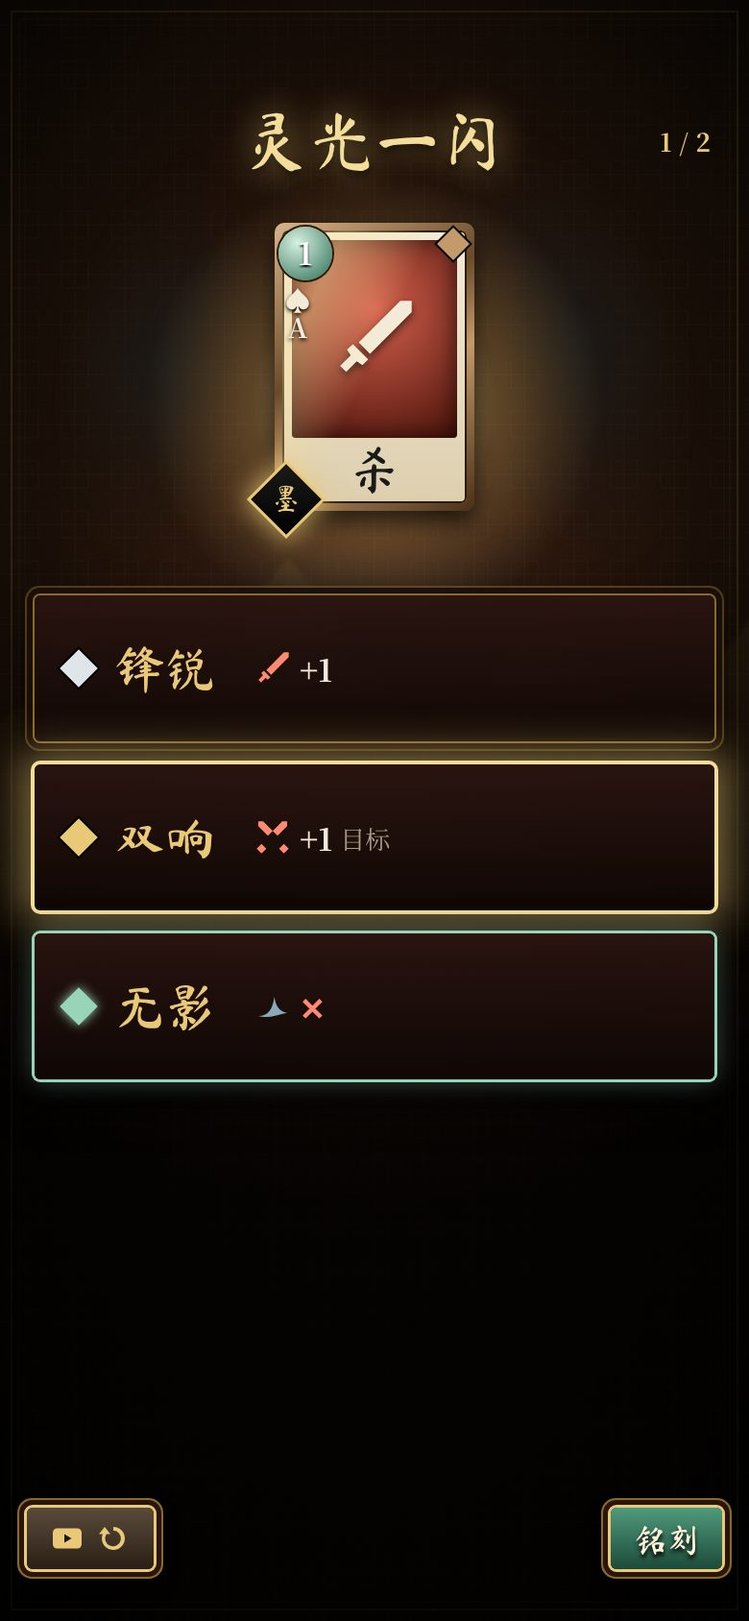
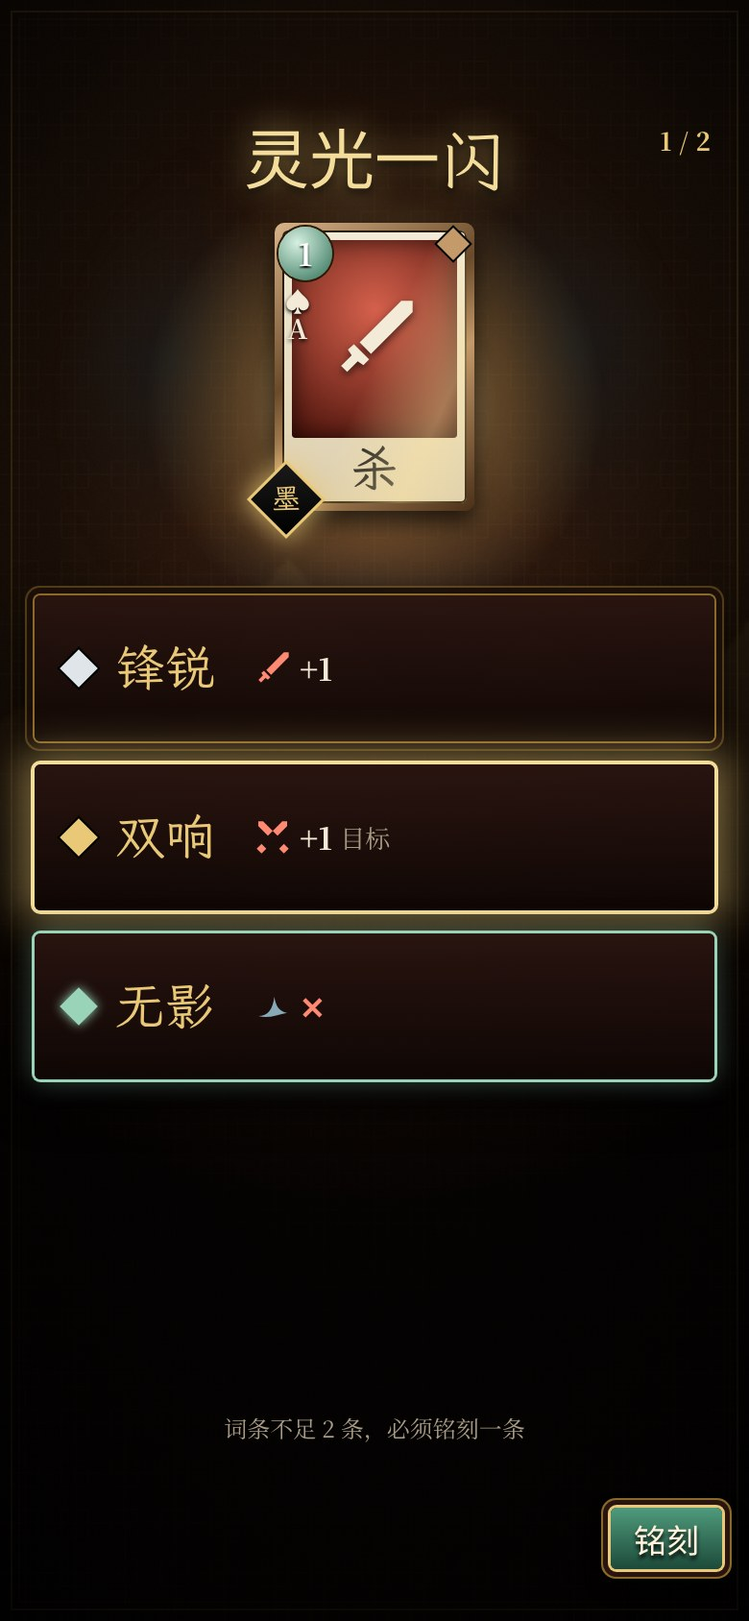
UI：灵光一闪补满词条替换/放弃状态，H5 隐藏刷新
- epiphany.html（docs 与 public 同步）：默认 H5 词条<2 必选、未选铭刻 disabled；#full 已有 2 词条可替换或放弃；#wx 保留广告刷新
- render-spec 新增 §8.6 与布局行，acceptance 灵光一闪行更新
- mockup 索引加 #full/#wx 入口，注明 0 候选不弹层
- 重渲 mockup-epiphany.jpg，新增 mockup-epiphany-full.jpg（780×1688，文楷）

diff --git a/docs/ui/mockups-v3/epiphany.html b/docs/ui/mockups-v3/epiphany.html
@@ -13,6 +13,21 @@
 .m.L{box-shadow:0 0 0 1.5px #9ad4b8,0 0 14px rgba(154,212,184,.4),0 10px 24px #000}
 .cnt{position:absolute;right:20px;top:64px;z-index:3;font-size:13px;color:var(--gold);display:flex;align-items:center;gap:4px}
 .bar{background:transparent;box-shadow:none}.bar .btn.ok{margin-left:auto}
+.bar .btn.dis{filter:grayscale(.85) brightness(.6);pointer-events:none}
+.adb{display:none}body.wx .adb{display:inline-flex}
+.old{display:none;position:absolute;left:18px;right:18px;top:282px;z-index:2}
+.old .lb{font-size:12px;color:var(--gold);margin-bottom:6px;text-align:center}
+.old .row{display:flex;gap:10px}
+.o{flex:1;height:48px;display:flex;align-items:center;gap:8px;padding:0 12px;cursor:pointer;opacity:.85}
+.o .gm{width:11px;height:11px;transform:rotate(45deg);box-shadow:0 0 0 1px #000;flex:none}
+.o b{font-family:Brush;font-weight:normal;font-size:20px;color:var(--paper)}.o .ef{font-size:14px;margin-left:auto;display:flex;align-items:center;gap:3px}.o .ef svg{width:16px;height:16px}
+.o.tgt{opacity:1;box-shadow:0 0 0 2px var(--cinn-glow),0 0 16px rgba(255,107,85,.55),0 8px 18px #000}
+.o.tgt b{text-decoration:line-through;text-decoration-color:var(--cinn-glow)}
+.o.tgt::after{content:"替";position:absolute;margin:-40px 0 0 -18px;width:20px;height:20px;line-height:20px;text-align:center;font-family:Brush;font-size:14px;color:var(--paper);background:var(--cinnabar);border-radius:2px;box-shadow:0 0 0 1px var(--paper)}
+.o{position:relative}
+.hn{position:absolute;left:0;right:0;bottom:92px;text-align:center;font-size:12px;color:#a89c84;z-index:2}
+body.full .old{display:block}body.full .mods{top:362px}body.full .m{height:68px}
+.vf{display:none}body.full .vf{display:inline-flex}body.full .hn.vf{display:block}body.full .vd{display:none}
 </style></head><body><svg width="0" height="0" style="position:absolute" aria-hidden="true">
 <defs>
  <filter id="brush" x="-10%" y="-10%" width="120%" height="120%">
@@ -150,7 +165,12 @@
  <div class="m panel sel"><span class="gm" style="background:var(--gold)"></span><b>双响</b><span class="ef"><svg style="fill:#ff8a73"><use href="#i-swords"/></svg><span class="num">+1</span><span style="font-size:13px;color:#a89c84">目标</span></span></div>
  <div class="m panel L"><span class="gm" style="background:#9ad4b8;box-shadow:0 0 6px #9ad4b8"></span><b>无影</b><span class="ef"><svg style="fill:var(--azure-hi)"><use href="#i-dodge"/></svg><span class="num" style="color:#ff8a73">✕</span></span></div>
 </div>
-<div class="bar"><div class="btn sec sm"><svg><use href="#i-ad"/></svg><svg><use href="#i-refresh"/></svg></div><div class="btn ok sm">铭刻</div></div>
+<div class="old"><div class="lb">已有 2 条词条 · 选择要替换的一条</div><div class="row">
+ <div class="o panel"><span class="gm" style="background:#dfe5e8"></span><b>迅击</b><span class="ef"><svg style="fill:var(--azure-hi)"><use href="#i-dodge"/></svg><span class="num">+1</span></span></div>
+ <div class="o panel tgt"><span class="gm" style="background:var(--gold)"></span><b>破甲</b><span class="ef"><svg style="fill:#ff8a73"><use href="#i-armor"/></svg><span class="num">−1</span></span></div>
+</div></div>
+<div class="hn vd">词条不足 2 条，必须铭刻一条</div><div class="hn vf">先选新词条，再选替换哪条；或放弃本次灵光</div>
+<div class="bar"><div class="btn sec sm adb" title="仅微信版：广告刷新，每次灵光 1 次"><svg><use href="#i-ad"/></svg><svg><use href="#i-refresh"/></svg></div><div class="btn sec sm vf" id="giveup">放弃</div><div class="btn ok sm vd" id="ink">铭刻</div><div class="btn ok sm vf" id="rep">替换</div></div>
 </div><script>const use=(id,cls='')=>`<svg class="${cls}"><use href="#${id}"/></svg>`;
 const red=s=>s=='♥'||s=='♦';
 const card=(c,cls='')=>`<div class="card ${c.k} ${c.r||'N'} ${c.mo?'moc':''} ${cls}"><div class="in"><div class="art">${use(c.i)}</div><div class="cn">${c.n}</div></div><span class="c num">${c.c}</span><span class="su ${red(c.s)?'r':''}">${c.s}<br><span class="num">${c.p}</span></span><span class="rar"></span>${c.mo?'<span class="mo"><span>墨</span></span>':''}</div>`;
@@ -159,4 +179,11 @@ const HEROES=[{n:'吕布',f:'qun',fa:'群',hp:9,s:'boss'},{n:'貂蝉',f:'qun',fa
 function longpress(el,fn){let t;el.addEventListener('pointerdown',()=>{t=setTimeout(fn,420)});['pointerup','pointerleave'].forEach(v=>el.addEventListener(v,()=>clearTimeout(t)));}
 
 cc.innerHTML=card({n:'杀',c:1,s:'♠',p:'A',k:'atk',i:'i-sword',r:'N',mo:1},'big');
-document.querySelectorAll('.m').forEach(o=>o.onclick=()=>{document.querySelectorAll('.m').forEach(x=>x.classList.remove('sel'));o.classList.add('sel')});</script></body></html>
+/* 状态：默认 H5·词条<2（必须选一）；#full 满 2 条（替换/放弃）；#wx 微信版显示广告刷新；可组合 #full-wx。0 条候选时不弹层，无画面。 */
+const H=location.hash;if(H.includes('full'))document.body.classList.add('full');if(H.includes('wx'))document.body.classList.add('wx');
+const full=document.body.classList.contains('full');
+if(full){cc.innerHTML=card({n:'杀',c:1,s:'♠',p:'A',k:'atk',i:'i-sword',r:'R',mo:1},'big');}
+const sync=()=>{const m=!!document.querySelector('.m.sel'),t=!!document.querySelector('.o.tgt');ink.classList.toggle('dis',!m);rep.classList.toggle('dis',!(m&&t));};
+document.querySelectorAll('.m').forEach(o=>o.onclick=()=>{document.querySelectorAll('.m').forEach(x=>x.classList.remove('sel'));o.classList.add('sel');sync()});
+document.querySelectorAll('.o').forEach(o=>o.onclick=()=>{document.querySelectorAll('.o').forEach(x=>x.classList.remove('tgt'));o.classList.add('tgt');sync()});
+sync();</script></body></html>

diff --git a/public/mockups/v3/epiphany.html b/public/mockups/v3/epiphany.html
@@ -13,6 +13,21 @@
 .m.L{box-shadow:0 0 0 1.5px #9ad4b8,0 0 14px rgba(154,212,184,.4),0 10px 24px #000}
 .cnt{position:absolute;right:20px;top:64px;z-index:3;font-size:13px;color:var(--gold);display:flex;align-items:center;gap:4px}
 .bar{background:transparent;box-shadow:none}.bar .btn.ok{margin-left:auto}
+.bar .btn.dis{filter:grayscale(.85) brightness(.6);pointer-events:none}
+.adb{display:none}body.wx .adb{display:inline-flex}
+.old{display:none;position:absolute;left:18px;right:18px;top:282px;z-index:2}
+.old .lb{font-size:12px;color:var(--gold);margin-bottom:6px;text-align:center}
+.old .row{display:flex;gap:10px}
+.o{flex:1;height:48px;display:flex;align-items:center;gap:8px;padding:0 12px;cursor:pointer;opacity:.85}
+.o .gm{width:11px;height:11px;transform:rotate(45deg);box-shadow:0 0 0 1px #000;flex:none}
+.o b{font-family:Brush;font-weight:normal;font-size:20px;color:var(--paper)}.o .ef{font-size:14px;margin-left:auto;display:flex;align-items:center;gap:3px}.o .ef svg{width:16px;height:16px}
+.o.tgt{opacity:1;box-shadow:0 0 0 2px var(--cinn-glow),0 0 16px rgba(255,107,85,.55),0 8px 18px #000}
+.o.tgt b{text-decoration:line-through;text-decoration-color:var(--cinn-glow)}
+.o.tgt::after{content:"替";position:absolute;margin:-40px 0 0 -18px;width:20px;height:20px;line-height:20px;text-align:center;font-family:Brush;font-size:14px;color:var(--paper);background:var(--cinnabar);border-radius:2px;box-shadow:0 0 0 1px var(--paper)}
+.o{position:relative}
+.hn{position:absolute;left:0;right:0;bottom:92px;text-align:center;font-size:12px;color:#a89c84;z-index:2}
+body.full .old{display:block}body.full .mods{top:362px}body.full .m{height:68px}
+.vf{display:none}body.full .vf{display:inline-flex}body.full .hn.vf{display:block}body.full .vd{display:none}
 </style></head><body><svg width="0" height="0" style="position:absolute" aria-hidden="true">
 <defs>
  <filter id="brush" x="-10%" y="-10%" width="120%" height="120%">
@@ -150,7 +165,12 @@
  <div class="m panel sel"><span class="gm" style="background:var(--gold)"></span><b>双响</b><span class="ef"><svg style="fill:#ff8a73"><use href="#i-swords"/></svg><span class="num">+1</span><span style="font-size:13px;color:#a89c84">目标</span></span></div>
  <div class="m panel L"><span class="gm" style="background:#9ad4b8;box-shadow:0 0 6px #9ad4b8"></span><b>无影</b><span class="ef"><svg style="fill:var(--azure-hi)"><use href="#i-dodge"/></svg><span class="num" style="color:#ff8a73">✕</span></span></div>
 </div>
-<div class="bar"><div class="btn sec sm"><svg><use href="#i-ad"/></svg><svg><use href="#i-refresh"/></svg></div><div class="btn ok sm">铭刻</div></div>
+<div class="old"><div class="lb">已有 2 条词条 · 选择要替换的一条</div><div class="row">
+ <div class="o panel"><span class="gm" style="background:#dfe5e8"></span><b>迅击</b><span class="ef"><svg style="fill:var(--azure-hi)"><use href="#i-dodge"/></svg><span class="num">+1</span></span></div>
+ <div class="o panel tgt"><span class="gm" style="background:var(--gold)"></span><b>破甲</b><span class="ef"><svg style="fill:#ff8a73"><use href="#i-armor"/></svg><span class="num">−1</span></span></div>
+</div></div>
+<div class="hn vd">词条不足 2 条，必须铭刻一条</div><div class="hn vf">先选新词条，再选替换哪条；或放弃本次灵光</div>
+<div class="bar"><div class="btn sec sm adb" title="仅微信版：广告刷新，每次灵光 1 次"><svg><use href="#i-ad"/></svg><svg><use href="#i-refresh"/></svg></div><div class="btn sec sm vf" id="giveup">放弃</div><div class="btn ok sm vd" id="ink">铭刻</div><div class="btn ok sm vf" id="rep">替换</div></div>
 </div><script>const use=(id,cls='')=>`<svg class="${cls}"><use href="#${id}"/></svg>`;
 const red=s=>s=='♥'||s=='♦';
 const card=(c,cls='')=>`<div class="card ${c.k} ${c.r||'N'} ${c.mo?'moc':''} ${cls}"><div class="in"><div class="art">${use(c.i)}</div><div class="cn">${c.n}</div></div><span class="c num">${c.c}</span><span class="su ${red(c.s)?'r':''}">${c.s}<br><span class="num">${c.p}</span></span><span class="rar"></span>${c.mo?'<span class="mo"><span>墨</span></span>':''}</div>`;
@@ -159,4 +179,11 @@ const HEROES=[{n:'吕布',f:'qun',fa:'群',hp:9,s:'boss'},{n:'貂蝉',f:'qun',fa
 function longpress(el,fn){let t;el.addEventListener('pointerdown',()=>{t=setTimeout(fn,420)});['pointerup','pointerleave'].forEach(v=>el.addEventListener(v,()=>clearTimeout(t)));}
 
 cc.innerHTML=card({n:'杀',c:1,s:'♠',p:'A',k:'atk',i:'i-sword',r:'N',mo:1},'big');
-document.querySelectorAll('.m').forEach(o=>o.onclick=()=>{document.querySelectorAll('.m').forEach(x=>x.classList.remove('sel'));o.classList.add('sel')});</script></body></html>
+/* 状态：默认 H5·词条<2（必须选一）；#full 满 2 条（替换/放弃）；#wx 微信版显示广告刷新；可组合 #full-wx。0 条候选时不弹层，无画面。 */
+const H=location.hash;if(H.includes('full'))document.body.classList.add('full');if(H.includes('wx'))document.body.classList.add('wx');
+const full=document.body.classList.contains('full');
+if(full){cc.innerHTML=card({n:'杀',c:1,s:'♠',p:'A',k:'atk',i:'i-sword',r:'R',mo:1},'big');}
+const sync=()=>{const m=!!document.querySelector('.m.sel'),t=!!document.querySelector('.o.tgt');ink.classList.toggle('dis',!m);rep.classList.toggle('dis',!(m&&t));};
+document.querySelectorAll('.m').forEach(o=>o.onclick=()=>{document.querySelectorAll('.m').forEach(x=>x.classList.remove('sel'));o.classList.add('sel');sync()});
+document.querySelectorAll('.o').forEach(o=>o.onclick=()=>{document.querySelectorAll('.o').forEach(x=>x.classList.remove('tgt'));o.classList.add('tgt');sync()});
+sync();</script></body></html>

diff --git a/docs/ui/mockups-v3/index.html b/docs/ui/mockups-v3/index.html
@@ -1,1 +1,1 @@
-<!doctype html><html lang="zh"><head><meta charset="utf-8"><meta name="viewport" content="width=device-width"><title>墨卷三国 v3 金漆屏风</title><style>body{font-family:serif;background:#1a1410;color:#f3ebd8;max-width:960px;margin:auto;padding:20px}a{color:#e9c877}.g{display:flex;flex-wrap:wrap;gap:16px}.g a{display:block;width:290px}iframe{width:390px;height:844px;border:0;transform:scale(.74);transform-origin:0 0;margin:0 -101px -219px 0;pointer-events:none}</style></head><body><h1>v3 · 金漆屏风 外围页面</h1><p>战斗页见 <a href="../v2/b.html">v2/b.html</a></p><div class="g"><a href="resume.html">P1 启动·继续本局<br><iframe src="resume.html"></iframe></a><a href="abandon.html">放弃本局确认<br><iframe src="abandon.html"></iframe></a><a href="select.html">P1 点将<br><iframe src="select.html"></iframe></a><a href="map.html">P3 地图<br><iframe src="map.html"></iframe></a><a href="boss.html">P3 首领确认<br><iframe src="boss.html"></iframe></a><a href="epiphany.html">P2 灵光一闪<br><iframe src="epiphany.html"></iframe></a><a href="revive.html">P2 复活<br><iframe src="revive.html"></iframe></a><a href="settings.html">暂停/设置<br><iframe src="settings.html"></iframe></a><a href="version.html">P2 版本更新<br><iframe src="version.html"></iframe></a><a href="reward.html">P4 奖励<br><iframe src="reward.html"></iframe></a><a href="reward.html#full">P4 奖励·丹药满<br><iframe src="reward.html#full"></iframe></a><a href="shop.html">P4 集市<br><iframe src="shop.html"></iframe></a><a href="chest.html">P4 宝箱<br><iframe src="chest.html"></iframe></a><a href="event.html">P4b 奇遇<br><iframe src="event.html"></iframe></a><a href="rest.html">P4b 营地 H5<br><iframe src="rest.html"></iframe></a><a href="rest.html#wx">P4b 营地 微信<br><iframe src="rest.html#wx"></iframe></a><a href="result.html">P5 大捷<br><iframe src="result.html"></iframe></a><a href="defeat.html">P5 败北<br><iframe src="defeat.html"></iframe></a><a href="lobby.html">大厅（仅微信后续）<br><iframe src="lobby.html"></iframe></a></div></body></html>
+<!doctype html><html lang="zh"><head><meta charset="utf-8"><meta name="viewport" content="width=device-width"><title>墨卷三国 v3 金漆屏风</title><style>body{font-family:serif;background:#1a1410;color:#f3ebd8;max-width:960px;margin:auto;padding:20px}a{color:#e9c877}.g{display:flex;flex-wrap:wrap;gap:16px}.g a{display:block;width:290px}iframe{width:390px;height:844px;border:0;transform:scale(.74);transform-origin:0 0;margin:0 -101px -219px 0;pointer-events:none}</style></head><body><h1>v3 · 金漆屏风 外围页面</h1><p>战斗页见 <a href="../v2/b.html">v2/b.html</a></p><div class="g"><a href="resume.html">P1 启动·继续本局<br><iframe src="resume.html"></iframe></a><a href="abandon.html">放弃本局确认<br><iframe src="abandon.html"></iframe></a><a href="select.html">P1 点将<br><iframe src="select.html"></iframe></a><a href="map.html">P3 地图<br><iframe src="map.html"></iframe></a><a href="boss.html">P3 首领确认<br><iframe src="boss.html"></iframe></a><a href="epiphany.html">P2 灵光一闪 H5（词条&lt;2，必选）<br><iframe src="epiphany.html"></iframe></a><a href="epiphany.html#full">P2 灵光一闪·满 2 条（替换/放弃）<br><iframe src="epiphany.html#full"></iframe></a><a href="epiphany.html#wx">P2 灵光一闪 微信（广告刷新）<br><iframe src="epiphany.html#wx"></iframe></a><a href="revive.html">P2 复活<br><iframe src="revive.html"></iframe></a><a href="settings.html">暂停/设置<br><iframe src="settings.html"></iframe></a><a href="version.html">P2 版本更新<br><iframe src="version.html"></iframe></a><a href="reward.html">P4 奖励<br><iframe src="reward.html"></iframe></a><a href="reward.html#full">P4 奖励·丹药满<br><iframe src="reward.html#full"></iframe></a><a href="shop.html">P4 集市<br><iframe src="shop.html"></iframe></a><a href="chest.html">P4 宝箱<br><iframe src="chest.html"></iframe></a><a href="event.html">P4b 奇遇<br><iframe src="event.html"></iframe></a><a href="rest.html">P4b 营地 H5<br><iframe src="rest.html"></iframe></a><a href="rest.html#wx">P4b 营地 微信<br><iframe src="rest.html#wx"></iframe></a><a href="result.html">P5 大捷<br><iframe src="result.html"></iframe></a><a href="defeat.html">P5 败北<br><iframe src="defeat.html"></iframe></a><a href="lobby.html">大厅（仅微信后续）<br><iframe src="lobby.html"></iframe></a></div><p>注：灵光一闪过滤后 0 条候选时不弹层、不计次数、不重置保底（subpages-v05 §1.2），无对应画面。</p></body></html>

diff --git a/public/mockups/v3/index.html b/public/mockups/v3/index.html
@@ -1,1 +1,1 @@
-<!doctype html><html lang="zh"><head><meta charset="utf-8"><meta name="viewport" content="width=device-width"><title>墨卷三国 v3 金漆屏风</title><style>body{font-family:serif;background:#1a1410;color:#f3ebd8;max-width:960px;margin:auto;padding:20px}a{color:#e9c877}.g{display:flex;flex-wrap:wrap;gap:16px}.g a{display:block;width:290px}iframe{width:390px;height:844px;border:0;transform:scale(.74);transform-origin:0 0;margin:0 -101px -219px 0;pointer-events:none}</style></head><body><h1>v3 · 金漆屏风 外围页面</h1><p>战斗页见 <a href="../v2/b.html">v2/b.html</a></p><div class="g"><a href="resume.html">P1 启动·继续本局<br><iframe src="resume.html"></iframe></a><a href="abandon.html">放弃本局确认<br><iframe src="abandon.html"></iframe></a><a href="select.html">P1 点将<br><iframe src="select.html"></iframe></a><a href="map.html">P3 地图<br><iframe src="map.html"></iframe></a><a href="boss.html">P3 首领确认<br><iframe src="boss.html"></iframe></a><a href="epiphany.html">P2 灵光一闪<br><iframe src="epiphany.html"></iframe></a><a href="revive.html">P2 复活<br><iframe src="revive.html"></iframe></a><a href="settings.html">暂停/设置<br><iframe src="settings.html"></iframe></a><a href="version.html">P2 版本更新<br><iframe src="version.html"></iframe></a><a href="reward.html">P4 奖励<br><iframe src="reward.html"></iframe></a><a href="reward.html#full">P4 奖励·丹药满<br><iframe src="reward.html#full"></iframe></a><a href="shop.html">P4 集市<br><iframe src="shop.html"></iframe></a><a href="chest.html">P4 宝箱<br><iframe src="chest.html"></iframe></a><a href="event.html">P4b 奇遇<br><iframe src="event.html"></iframe></a><a href="rest.html">P4b 营地 H5<br><iframe src="rest.html"></iframe></a><a href="rest.html#wx">P4b 营地 微信<br><iframe src="rest.html#wx"></iframe></a><a href="result.html">P5 大捷<br><iframe src="result.html"></iframe></a><a href="defeat.html">P5 败北<br><iframe src="defeat.html"></iframe></a><a href="lobby.html">大厅（仅微信后续）<br><iframe src="lobby.html"></iframe></a></div></body></html>
+<!doctype html><html lang="zh"><head><meta charset="utf-8"><meta name="viewport" content="width=device-width"><title>墨卷三国 v3 金漆屏风</title><style>body{font-family:serif;background:#1a1410;color:#f3ebd8;max-width:960px;margin:auto;padding:20px}a{color:#e9c877}.g{display:flex;flex-wrap:wrap;gap:16px}.g a{display:block;width:290px}iframe{width:390px;height:844px;border:0;transform:scale(.74);transform-origin:0 0;margin:0 -101px -219px 0;pointer-events:none}</style></head><body><h1>v3 · 金漆屏风 外围页面</h1><p>战斗页见 <a href="../v2/b.html">v2/b.html</a></p><div class="g"><a href="resume.html">P1 启动·继续本局<br><iframe src="resume.html"></iframe></a><a href="abandon.html">放弃本局确认<br><iframe src="abandon.html"></iframe></a><a href="select.html">P1 点将<br><iframe src="select.html"></iframe></a><a href="map.html">P3 地图<br><iframe src="map.html"></iframe></a><a href="boss.html">P3 首领确认<br><iframe src="boss.html"></iframe></a><a href="epiphany.html">P2 灵光一闪 H5（词条&lt;2，必选）<br><iframe src="epiphany.html"></iframe></a><a href="epiphany.html#full">P2 灵光一闪·满 2 条（替换/放弃）<br><iframe src="epiphany.html#full"></iframe></a><a href="epiphany.html#wx">P2 灵光一闪 微信（广告刷新）<br><iframe src="epiphany.html#wx"></iframe></a><a href="revive.html">P2 复活<br><iframe src="revive.html"></iframe></a><a href="settings.html">暂停/设置<br><iframe src="settings.html"></iframe></a><a href="version.html">P2 版本更新<br><iframe src="version.html"></iframe></a><a href="reward.html">P4 奖励<br><iframe src="reward.html"></iframe></a><a href="reward.html#full">P4 奖励·丹药满<br><iframe src="reward.html#full"></iframe></a><a href="shop.html">P4 集市<br><iframe src="shop.html"></iframe></a><a href="chest.html">P4 宝箱<br><iframe src="chest.html"></iframe></a><a href="event.html">P4b 奇遇<br><iframe src="event.html"></iframe></a><a href="rest.html">P4b 营地 H5<br><iframe src="rest.html"></iframe></a><a href="rest.html#wx">P4b 营地 微信<br><iframe src="rest.html#wx"></iframe></a><a href="result.html">P5 大捷<br><iframe src="result.html"></iframe></a><a href="defeat.html">P5 败北<br><iframe src="defeat.html"></iframe></a><a href="lobby.html">大厅（仅微信后续）<br><iframe src="lobby.html"></iframe></a></div></body></html>

diff --git a/docs/ui/render-spec.md b/docs/ui/render-spec.md
@@ -137,6 +137,7 @@
 | 地图 | 顶条 ｜ HUD 面板 48–98（头像、勾玉、铜钱、宝物/丹药）｜ 卷轴 106 到底栏上方（Boss 牌加 8 层节点，可纵向滚动）｜ 底栏 72 |
 | 奖励 | 大印“胜” 70–180 ｜ 战利品胶囊 236 ｜ 标题“择一入卷” 322 ｜ 3 张大牌 376–560 + 词条珠 ｜ 宝物条 600 ｜ 底栏（略过/收入） |
 | 集市 | 店招 48 ｜ 商人加对白 ｜ 铜钱 150 ｜ 卡牌 ×5（3 通用 + 1 势力 + 1 专属）+ 价签 236–430 ｜ 货架 ｜ 宝物 ×1 + 丹药 ×2 456–584 ｜ 刷新 / 广告 / 删牌服务 620 ｜ 底栏（离开） |
+| 灵光一闪 | 标题 56 + 次数 1/2 ｜ 大牌 116–266（104×150）｜ 默认：3 词条 310 起，每条 76、间距 12 ｜ `#full`：已有 2 词条 282–330（48 高，两列）+ 3 候选 362 起，每条 68 ｜ 提示 底栏上方 ｜ 底栏（H5：铭刻；`#full`：放弃 / 替换；`#wx`：多广告刷新） |
 | 结算 | 立绘 + 竖排“大捷/败北” 40–340 ｜ 统计 4 图标 330 ｜ 将魂 + ×2 广告 430 ｜ 兵书抄录（墨值格 + 可抄卡）510–690 ｜ 底栏（跳过/抄录） |
 
 ## 5. 动效时序与缓动
@@ -256,6 +257,18 @@
   - “×2”是广告按钮，用于将魂翻倍，或额外抄录 1 张（墨值 ≤2 的卡）。
   - “抄录”确认，“跳过”离开。
 - **VFX**：大字逐笔显现（墨笔描绘蒙版，800ms）；4 个统计数字依次滚动（间隔 150ms）；将魂火焰粒子汇聚后数字滚动（800ms）；抄录时卡牌化墨飞入兵书图标（600ms）。失败版：整体去饱和 .6，大字改为“败北”（朱砂），立绘半透明，将魂按 PRD 14.5 折半显示。
+
+### 8.6 灵光一闪（`v3/epiphany.html`，规则见 `docs/specs/subpages-v05.md` §1、§5）
+- **状态（hash）**：默认 = H5、该牌词条 < 2；`#full` = 该牌已有 2 条；`#wx` = 微信版（可与 `#full` 组合为 `#full-wx`）。过滤后 0 条候选时**不弹层**、不计次数、不重置保底，没有画面。
+- **层级**：遮罩 → 墨旋 → 金光 → 标题 + 次数 → 大牌 →（`#full`）已有词条行 → 候选词条 → 提示文案 → 底栏。
+- **交互**：
+  - 词条 < 2：三选一，**必须选一条**；未选时「铭刻」disabled，没有取消。
+  - 词条 = 2：先选新词条，再点已有词条之一作为替换目标（朱砂描边 + 「替」角标 + 名称删除线）；两者都选中前「替换」disabled。「放弃」始终可点，放弃后次数照常消耗。
+  - 刷新：**H5 不显示**（无广告）；微信版每次灵光 1 次广告刷新，用后置灰。
+  - 战斗暂停、响应倒计时冻结，不受倍速影响，不可跳过。
+- **缓存**：大牌、3 个候选面板、已有词条面板各烘焙一次；选中/替换目标用叠加层。
+- **VFX**：触发墨聚 900ms（§11 #8）；铭刻/替换时新词条飞入牌面（300ms），被替换词条化墨淡出（250ms）。
+- **截图**：`screens/mockup-epiphany.jpg`（默认）、`screens/mockup-epiphany-full.jpg`（满 2 条）。
 
 ## 9. 美术资源与包体（B 定稿）
 | 资源 | 规格(2x) | 数量 |

diff --git a/docs/ui/acceptance.md b/docs/ui/acceptance.md
@@ -32,7 +32,7 @@
 | 选将 | 主槽 176×240、副槽 122×166；网格 4×2 间距一致；已选武将压暗并盖印；未选满时出征 disabled；技能印 46⌀；珠联 chip 在技能印行内（y 373–397，副将技能印右侧 12），只显示名称，不显示正文，点/长按出详情；书法字无缺字（字体子集由构建脚本从 config 全量名称生成）；正式版不出现调试状态条 |
 | 地图 | 节点 38⌀（当前 44⌀）；已走路径朱砂实线 3.5、未走为虚线；可走节点脉冲 1.4s；滚动惯性；卷轴金轴盖在内容上方 |
 | 战斗 | 手牌硬上限 10（PRD 已定稿）：第 11 张直接进弃牌堆，显示 Toast“手满，弃置”，不触发弃牌效果；张角（Boss）没有「全场连环」意图或演出（PRD 0.5.4 O36）；敌牌尺寸（96×132 / Boss 116×160 / 后排 76×104）；意图牌位置（右上 -10/-14）；致命意图朱砂底加脉冲；倒计时圈 30⌀；勾玉 17⌀；虎符 3 枚 30×42；手牌 72×104、步进 58，花色在左；响应：遮罩 α .72、合法牌高亮、箭头起止点正确、横幅不压武将名；判定 650ms 三段动画 |
-| 灵光一闪 | 卡牌居中放大；E 墨聚 900ms；3 个词条等高 76；稀有度宝石颜色；未选时铭刻 disabled |
+| 灵光一闪 | 卡牌居中放大；E 墨聚 900ms；3 个词条等高 76；稀有度宝石颜色；词条 < 2 时必选、无取消，未选时铭刻 disabled；满 2 条（`#full`）显示已有 2 词条，选新词条 + 替换目标后「替换」才可点，「放弃」始终可点；**H5 无刷新按钮**（仅微信 `#wx` 有广告刷新）；0 条候选不弹层 |
 | 复活 | 背景战场灰度压暗；对话框居中；广告按钮带 ▶；次数 1/1 |
 | 奖励 | 大印“胜” 110×110 旋转 -6°；放射光旋转；3 张大牌 104×150 依次翻开（间隔 100ms）；选中上浮加金光；L 卡玉框加光柱 |
 | 奇遇 | 插画框 354×300；竖排标题和“遇”印；选项高 64；disabled 选项显示“需 X”；判定类结果翻牌 |
